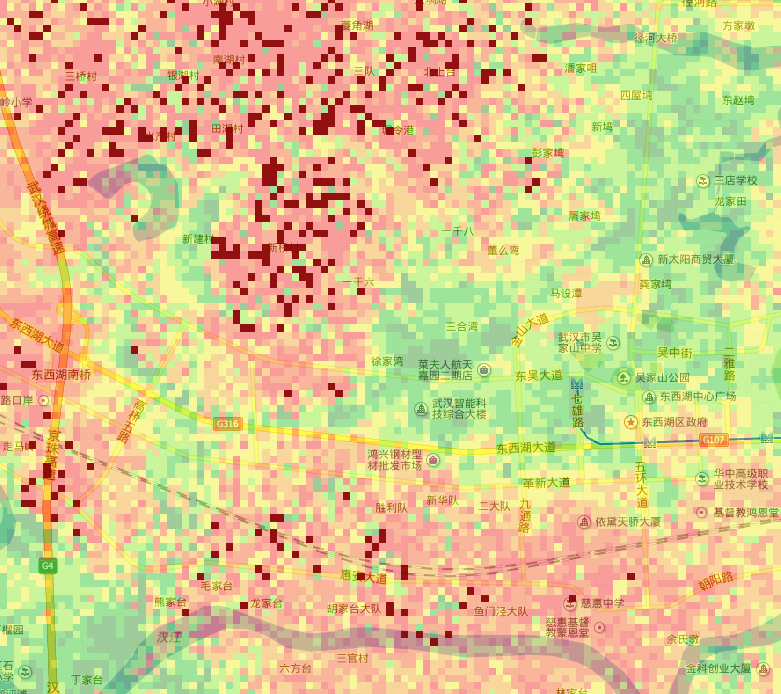
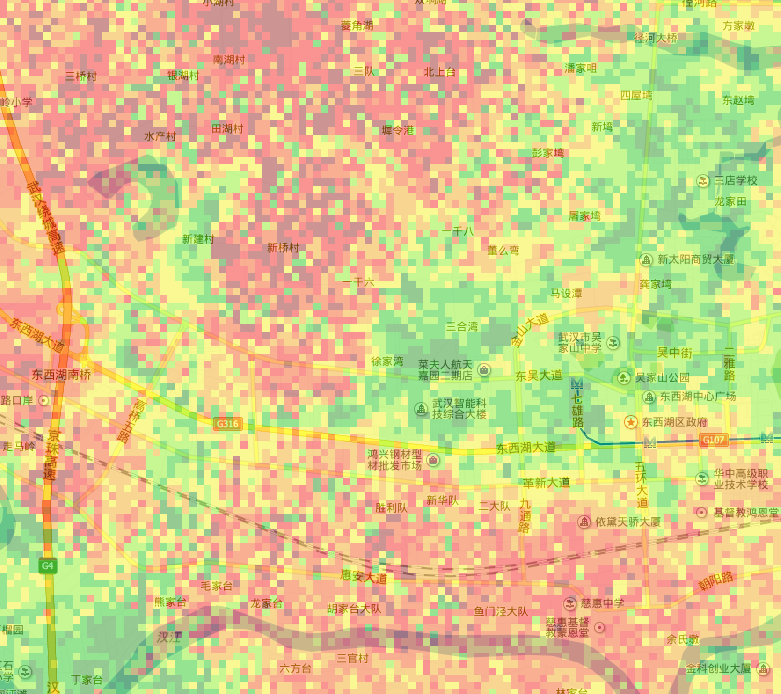
修改统计模块，增加对最终改善效果的统计

diff --git a/src/test/GatherAll_wuhan.java b/src/test/GatherAll_wuhan.java
@@ -32,12 +32,16 @@ public class GatherAll_wuhan {
 //***数据统计**
 //		Statistics.execute("src/initial/grid123Sift.txt");
 //		Statistics.execute("src/smooth/grid123Smooth.txt");
-//		Statistics.gridGapAmount("src/initial/grid12 3Sift.txt");
+//		Statistics.gridGapAmount("src/initial/grid123Sift.txt");
 //		Statistics.gridGapAmount("src/process/grid123Process.txt");
+//		Statistics.statisticFinal("src/process/grid123Process.txt");
+		Statistics.statisticFinal("src/evaluate/grid123KEcioE.txt");
+		Statistics.statisticFinal("src/evaluate/grid123DBSE.txt");
 //***绘制Ec/io图**
 //		DataHandling.DataAdd("src/initial/grid123Sift.txt","src/process/grid123Process.txt");//数据增加，填补空白区域
 //		DataHandling.DataSmooth("src/process/grid123Process.txt", "src/smooth/grid123Smooth.txt");//数据平滑，去除杂点
 //		DataHandling.DataSmooth("src/smooth/grid123Smooth.txt", "src/smooth/grid123Smooth1.txt");//数据平滑，去除杂点
+//		GenerateMapPNG.DrawPNG("src/initial/grid123Sift.txt","src/transform/grid123ID.txt","src/draw/grid123p.png");
 //		GenerateMapPNG.DrawPNG("src/process/grid123Process.txt","src/transform/grid123ID.txt","src/draw/grid123.png");
 //***绘制话务量图**	
 //		DataHandling.DataCallProcess("src/input/grid_data1.txt","src/input/grid_data2.txt","src/initial/grid123Call.txt");
@@ -69,20 +73,20 @@ public class GatherAll_wuhan {
 //        GenerateMapPNG.DrawPNG("src/evaluate/grid123KEcioE.txt","src/transform/grid123IDKEcioE.txt","src/draw/grid123KEcioE.png");
  //***DBSCAN**
  		//初始化一个BisectingKmeans对象，将k置为5 
-        DBSCAN ds = new DBSCAN(7);
- 		// 设置原始数据集
-        ds.setDataFileSet("src/initial/gridJointFind.txt",(float) -12);
- 		// 执行算法
-        ds.execute();
- 		//输出结果
-        ds.printDataArray("src/zcluster/grid123DBS.txt");
-		//得到质心
-        ArrayList<float[]> Center = ds.getCenter();
+//        DBSCAN ds = new DBSCAN(7);
+// 		// 设置原始数据集
+//        ds.setDataFileSet("src/initial/gridJointFind.txt",(float) -12);
+// 		// 执行算法
+//        ds.execute();
+// 		//输出结果
+//        ds.printDataArray("src/zcluster/grid123DBS.txt");
+//		//得到质心
+//        ArrayList<float[]> Center = ds.getCenter();
 //        //绘图
-        GenerateMapPNG.DrawPNG("src/zcluster/grid123DBS.txt","src/transform/grid123IDDBS.txt","src/draw/grid123DBS.png");
-        GenerateMapPNG.DrawCenter(Center,"src/draw/grid123DBS.png","src/draw/grid123DBSC.png");
-        Evaluate.execute("src/process/grid123Process.txt", Center, (float)-2, 4,20,3,"src/evaluate/grid123DBSE.txt");
-        GenerateMapPNG.DrawPNG("src/evaluate/grid123DBSE.txt","src/transform/grid123IDDBSE.txt","src/draw/grid123DBSE.png");
+//        GenerateMapPNG.DrawPNG("src/zcluster/grid123DBS.txt","src/transform/grid123IDDBS.txt","src/draw/grid123DBS.png");
+//        GenerateMapPNG.DrawCenter(Center,"src/draw/grid123DBS.png","src/draw/grid123DBSC.png");
+//        Evaluate.execute("src/process/grid123Process.txt", Center, (float)-2, 4,20,3,"src/evaluate/grid123DBSE.txt");
+//        GenerateMapPNG.DrawPNG("src/evaluate/grid123DBSE.txt","src/transform/grid123IDDBSE.txt","src/draw/grid123DBSE.png");
 
 		System.out.println("Over");
 		System.exit(0);

diff --git a/src/test/Statistics.java b/src/test/Statistics.java
@@ -121,18 +121,6 @@ public class Statistics {
         PrintWriter out1 = new PrintWriter(new FileWriter(writename1));
         
 	 	int m=0,n=0;
-//		for(int i=xMin;i<=xMax;i++){
-//			out1.println(i+" "+(yMinArray[i]+1)+" "+-16);
-//			out1.println(i+" "+(yMaxArray[i]+0)+" "+-6);
-//			for(int j=yMinArray[i];j<=yMaxArray[i];j++){
-//				if(hm.containsKey(i+"^"+j)) {
-//					m++;
-//				}
-//				else{
-//					n++;
-//				}
-//			}
-//		}
 		for(int i=xMin;i<=xMax;i++){
 //			out1.println(i+" "+(yMinArray[i]+1)+" "+-16);
 //			out1.println(i+" "+(yMaxArray[i]+0)+" "+-6);
@@ -211,5 +199,48 @@ public class Statistics {
         bf.close();
 		System.out.println("xMax:"+xMax+",xMin:"+xMin);	
 		System.out.println("yMax:"+yMax+",yMin:"+yMin);
+	}
+	public static void statisticFinal(String srcFile) throws FileNotFoundException, IOException {
+		 System.out.println("Statistics.statisticFinal()");
+	   	 System.out.println(srcFile);
+		 BufferedReader in = new BufferedReader(new FileReader(srcFile));
+		 BufferedReader in1 = new BufferedReader(new FileReader("src/process/grid123CallProcess.txt"));
+		 HashMap<String, String> hm1 = new HashMap<String, String>();//hm 
+		 String str,str1;
+	   	 while((str1 = in1.readLine())!=null){
+	   		  String[]  tokens1 = str1.split(" ");
+	   		  hm1.put(tokens1[0]+"^"+tokens1[1],tokens1[2]);//将一点数据的栅格，经纬度、ecio载入hm1中
+	   	 }
+	   	 int a[] = {0,0,0,0,0,0,0,0};
+	   	 int b[] = {0,0,0,0,0,0};
+	   	 int num=0;
+	   	 while((str = in.readLine())!=null){
+	   		 String[]  tokens = str.split(" ");
+	         int x = Integer.parseInt(tokens[0]);//经度栅格ID
+			 int y = Integer.parseInt(tokens[1]);//纬度栅格ID
+	   		 float ecio = Float.valueOf(tokens[2]);
+	   		 String point = x+"^"+y;
+   			 int calls = (int) Math.floor(Float.valueOf(hm1.get(point)));
+//	   		 System.out.println(tokens[2]);
+   			 if(calls>0){}
+   			 else{System.out.println("!!!  "+calls);}
+	   		 if(ecio>-8){a[0]+=calls;}
+//	   		 else if(ecio>-7){a[1]++;}
+//	   		 else if(ecio>-8){a[2]++;}
+	   		 else if(ecio>-9){a[3]+=calls;}
+	   		 else if(ecio>-10){a[4]+=calls;}
+	   		 else if(ecio>-11){a[5]+=calls;}
+	   		 else if(ecio>-12){a[6]+=calls;}
+	   		 else {
+	   			 a[7]+=calls;
+	   		 }
+	   		 num++;
+	   	  }
+	   	in.close();
+	   	in1.close();
+	   	for(int i=0;i<a.length;i++){
+	   		 System.out.println("a"+i+":"+a[i]);
+	   	}
+	    System.out.println("num:"+num);
 	}
 }
